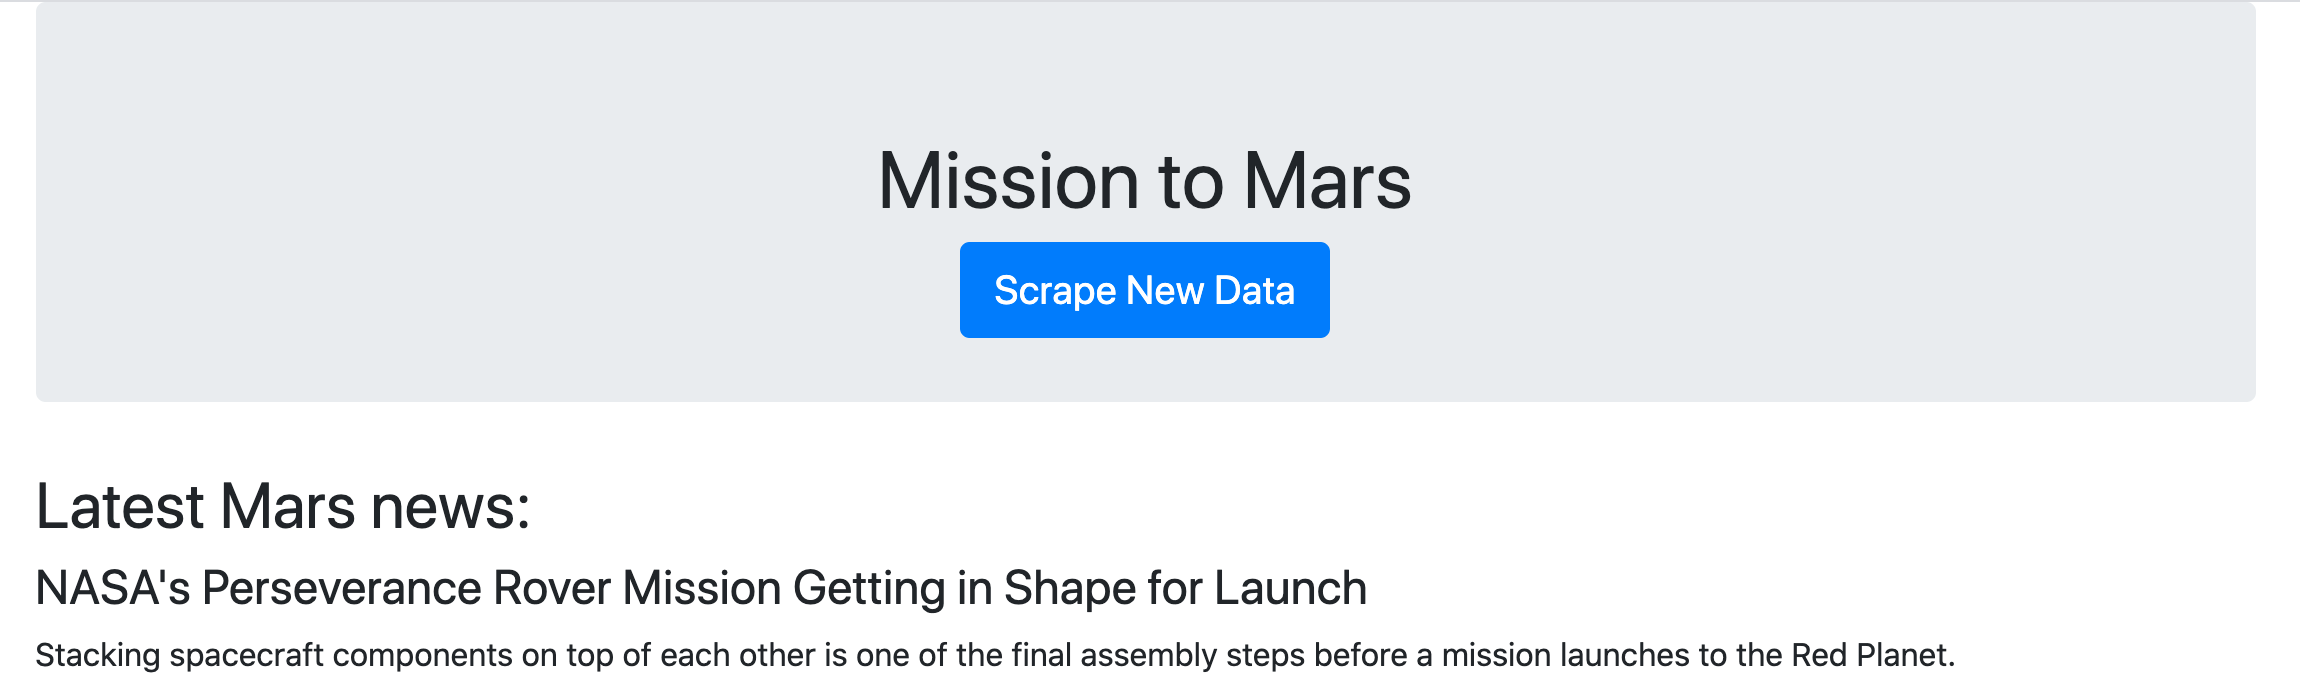
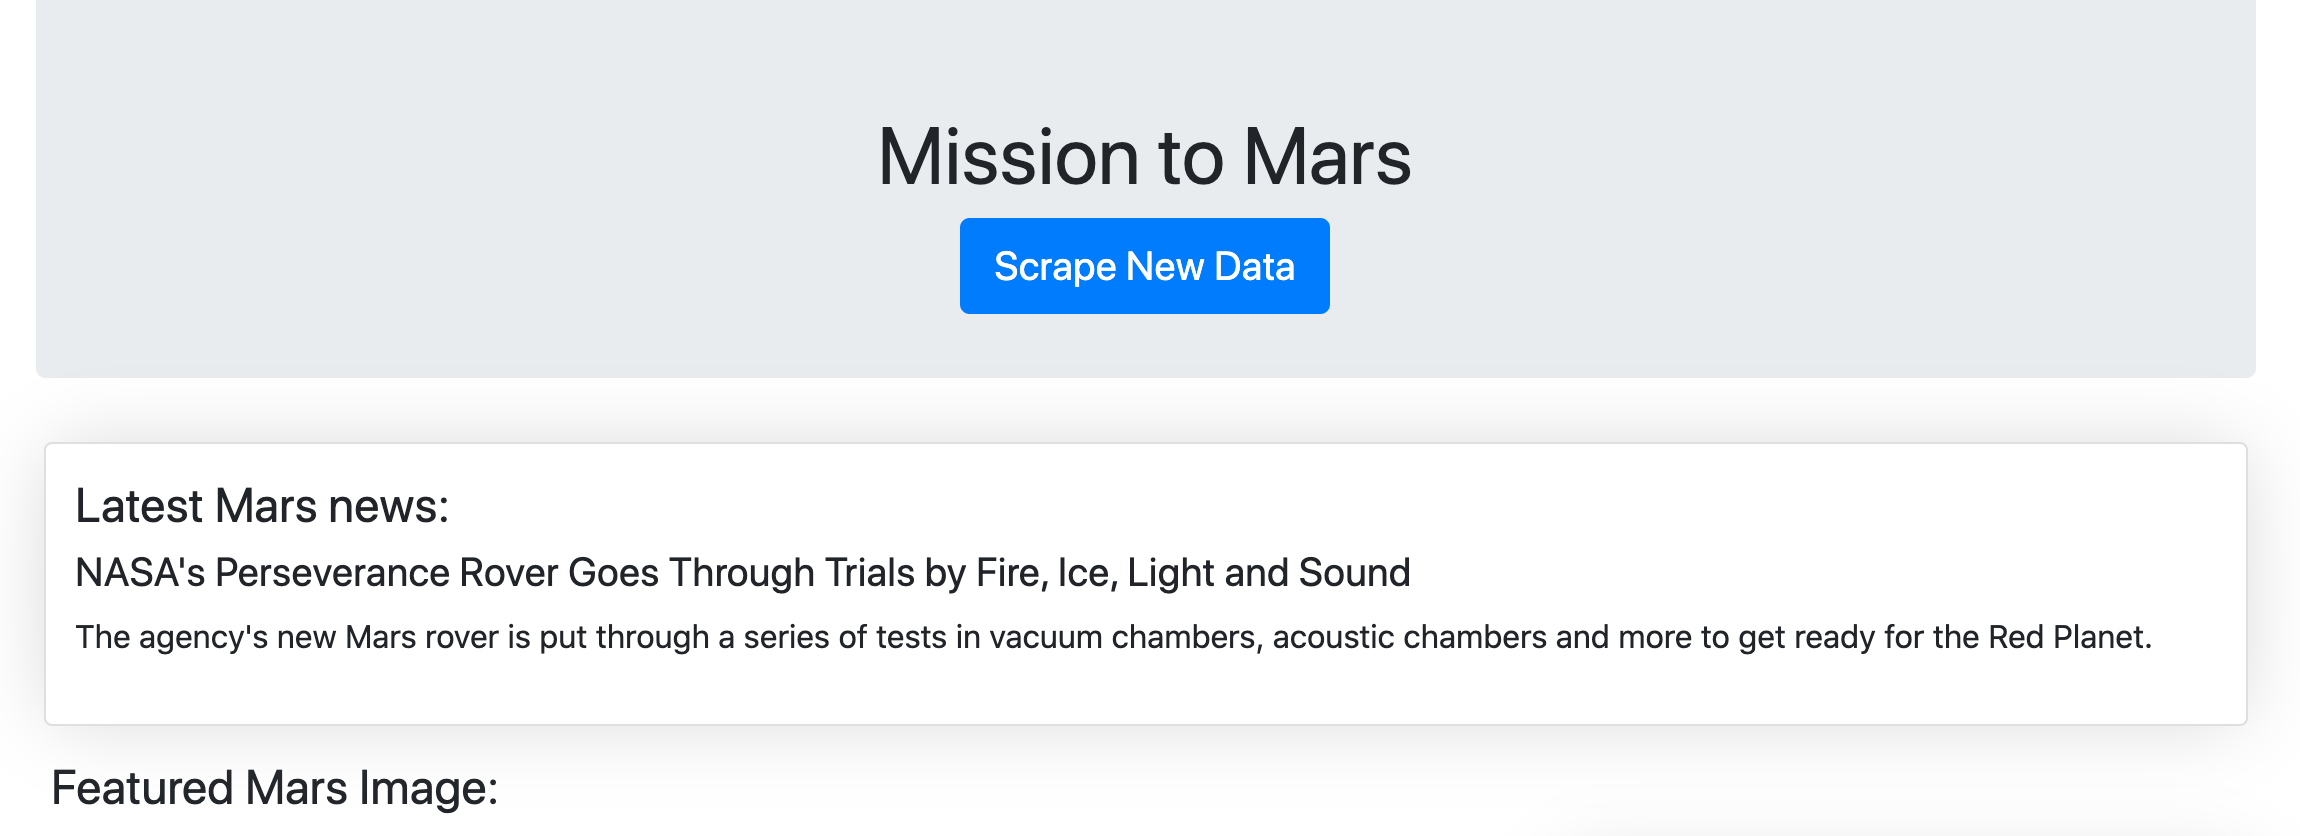
css changed

diff --git a/MissionToMars/templates/index.html b/MissionToMars/templates/index.html
@@ -1,4 +1,5 @@
 <!DOCTYPE html>
+
 <html lang="en">
 
 <head>
@@ -8,8 +9,6 @@
   <meta charset="utf-8">
   <meta name="viewport" content="width=device-width, initial-scale=1">
 
-  <link rel="stylesheet" href = "templates/static/assets/style.css">
-
   <link rel="stylesheet" href="https://maxcdn.bootstrapcdn.com/bootstrap/4.4.1/css/bootstrap.min.css">
 
   <script src="https://ajax.googleapis.com/ajax/libs/jquery/3.4.1/jquery.min.js"> </script>
@@ -17,6 +16,9 @@
   <script src="https://cdnjs.cloudflare.com/ajax/libs/popper.js/1.16.0/umd/popper.min.js"> </script>
 
   <script src="https://maxcdn.bootstrapcdn.com/bootstrap/4.4.1/js/bootstrap.min.js"> </script>
+  
+
+  <link rel="stylesheet" type="text/css" href="{{url_for('static',filename='styles/style.css')}}"> 
 
 </head>
 
@@ -38,10 +40,11 @@
         <!--------------------------------------------------------------------->
 
         <!-- Start of Mars News -->
-        <div class = "row " > 
+        <div class = "row card mx-1  py-3" 
+             style = "box-shadow: 0 0 40px -5px hsla(0,0%,60.8%,.45);" > 
             <div class = 'col-md-12'>
-                <h2> Latest Mars news:</h2> 
-                <h4> {{MARS_data.news_title}} </h4>
+                <h4> Latest Mars news:</h2> 
+                <h5> {{MARS_data.news_title}} </h4>
                 <p> {{MARS_data.news_paragraph}} </p>
             </div>
         </div> <!-- End of Mars News -->
@@ -49,15 +52,17 @@
         <!--------------------------------------------------------------------->
 
         <!-- Start of Featured Mars Image, weather and facts -->
+
+        <h4 class = "row mx-2 py-3"> Featured Mars Image: </h2>
+
         <div class = 'row justify-content-around'>
 
             <!-- Start of Featured Mars Image -->
-            <div class = "col-md-8 justify-content-around"> 
-
-                <h2 px-3> Featured Mars Image: </h2>
-
-                <img src = "{{MARS_data.featured_image_url}}" class = "image-responsive" alt="Mars space image" style="width: 99%;"> 
-                </img>
+            <div class = "col-md-8"> 
+                <div class = "card mx-2">
+                    <img src = "{{MARS_data.featured_image_url}}" class = "image-responsive" alt="Mars space image" style="width:100%;"> 
+                    </img>
+                </div>
 
             </div>  <!-- End of Featured Mars Image -->
 
@@ -67,10 +72,12 @@
             <div class = "col-md-4 justify-content-around">
 
                 <!-- Start of weather -->
-                <div class="row card border border-dark" style = "margin-top: 45px;">
-                    
-                    <h4 class="card-header" style="background-color:rgba(0,0,0,.1);" >  Current Weather On Mars: </h4>
+    
+                <div class="card" 
+                     style ="box-shadow: 0 0 40px -5px hsla(0,0%,60.8%,.45);" >
 
+                    <h5 class="card-header"style="background-color:rgba(0,0,0,.1);"> Current Weather On Mars:
+                    </h4>
                     <div class="card-body">
                       <p class="card-text"> {{MARS_data.mars_weather}} </p>
                     </div>
@@ -79,12 +86,11 @@
                 <!------------------------------------------------------------->
                
                 <!-- Start of Mars facts -->
-                <div class = 'row table-sm table-striped table-hover' style = "margin-top: 10px;">
-
-                    <h3 class = "py-3"> Mars Facts:</h3>
-                    {{MARS_data.mars_facts_html|safe}}
-
-                </div> <!-- End of Mars facts -->
+                <div class = "py-3 mx-1"> <h4> Mars Facts:</h4> </div>
+                               
+                <div class = 'card table-sm table-striped table-hover table-bordered' style = "box-shadow: 0 0 40px -5px hsla(0,0%,60.8%,.45);"> {{MARS_data.mars_facts_html|safe}} </div> 
+                
+                <!-- End of Mars facts -->
 
             </div> <!-- End of weather and facts -->
                 
@@ -98,25 +104,23 @@
 
             <div class = "row mx-auto"> </div>
                 <div class= "col-md-12">
-                   <h2 class ="text-center py-3"> Mars Hemispheres:</h2>
+                   <h3 class ="text-center py-2"> Mars Hemispheres:</h2>
                 </div> 
             </div>
           
-
-            <div class = "row img-thumbnail mx-auto">
+            <div class = "row img-thumbnail justify-content-around mx-2">
 
                 {% for hemisphere in MARS_data.hemispheres_info %}
 
-                    <div class = "col-md-6" style = "padding-top: 10px">
+                    <div class = "col-md-6" style = "padding-top: 15px">
 
-                        <div>                   
-                            <img src="{{hemisphere.Image_URL | default('static/images/error.png', true)}}" class = "image-responsive"  alt = "..." style = "width: 99%"> </img> 
+                        <div>    
+                            <img src="{{hemisphere.Image_URL | default('static/images/error.png', true)}}" class = "image-responsive"  alt = "..." style = "width: 100%"> </img>
                         </div>
 
                         <div class = "row">
-                            <div class= "col-md-12">
-                               <h5 class="text-center py-3">{{hemisphere.Title}} 
-                               </h5> 
+                            <div class= "col-md-12 text-center my-2">
+                               <h5 style = "color: darkblue;"> {{hemisphere.Title}} </h5> 
                             </div> 
                         </div>
 

diff --git a/MissionToMars/static/styles/style.css b/MissionToMars/static/styles/style.css
@@ -1,0 +1,31 @@
+body {
+    -webkit-font-smoothing: antialiased;
+    font-family: "Inter UI",sans-serif;
+    font-size: 10px;
+    background-color: #fbfcfd;
+    color: #4a4a4a;
+    overflow-wrap: break-word;
+}
+
+h {  
+  font-family: "Inter UI", sans-serif;
+}
+
+
+th {
+  text-align: left;
+}
+
+.card {
+    padding: .6rem 1.1rem;
+    background-color: #fff;
+    border-radius: 6px;
+    box-shadow: 0 0 40px -5px hsla(0,0%,60.8%,.45);
+    margin: 0 auto;
+    width: 99%;
+    display: flex;
+    flex: 0 1 auto;
+    flex-direction: row;
+    flex-wrap: wrap;
+    max-width: 85rem;
+}
